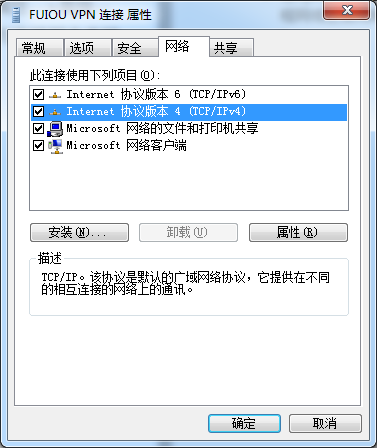
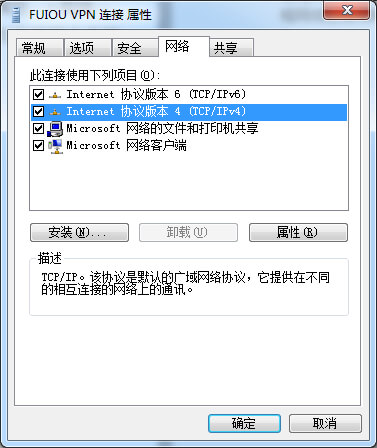
压缩图片 增加首行空格 修改分类 增加代码copy

diff --git a/source/_posts/2022/03/26/每周知识点介绍-权限验证流程-认证、授权、鉴权、权限验证.md b/source/_posts/2022/03/26/每周知识点介绍-权限验证流程-认证、授权、鉴权、权限验证.md
@@ -18,59 +18,64 @@ categories:
 - 知识点分享
 ---
 
-&ensp;&ensp;Hello,大家好，我是小毛驴。欢迎大家来到每周知识点介绍栏目。本次我将带领大家一起来了解下权限系统的核心流程（概念）有哪些（见下述列表），我们在设计权限系统或者和权限系统连接时需要注意哪些。  
+Hello,大家好，我是小毛驴。欢迎大家来到每周知识点介绍栏目。本次我将带领大家一起来了解下权限系统的核心流程（概念）有哪些（见下述列表），我们在设计权限系统或者和权限系统连接时需要注意哪些。  
 
 * 身份认证
 * 授权
 * 鉴权
 * 权限验证
 
-&ensp;&ensp;通过本文的介绍，也期望能在大家未来的开发和设计上起到一些积极的作用。言归正传，我们开始进入正题吧。  
+通过本文的介绍，也期望能在大家未来的开发和设计上起到一些积极的作用。言归正传，我们开始进入正题吧。  
 
 <!--more-->
 
-&ensp;&ensp;让我们来设想一个场景，你是一个酒店的前台人员，有一位顾客昨晚在你们酒店预订了一间房，今天按时到达。你先验证这位顾客的身份，登记后给他发放一张房卡，顾客拿着这种房卡即可搭乘电梯和打开他自己的房门。  
+让我们来设想一个场景，你是一个酒店的前台人员，有一位顾客昨晚在你们酒店预订了一间房，今天按时到达。你先验证这位顾客的身份，登记后给他发放一张房卡，顾客拿着这种房卡即可搭乘电梯和打开他自己的房门。  
 
-&ensp;&ensp;就在这个场景中，我们就经历了身份认证，授权，鉴权，权限验证的过程，具体的对应关系我们在下面展开。  
+就在这个场景中，我们就经历了身份认证，授权，鉴权，权限验证的过程，具体的对应关系我们在下面展开。  
 
 ## 身份认证是什么？
 
-&ensp;&ensp;身份认证是一种确认某人是某人的安全实践，听着有些虚幻就好像。但在我们系统中一般就是验证你的密码和我们存储你的密码是否一致。当前身份认证还有其他的更安全的手段，我们这里先只讨论最简单的实现。  
+身份认证是一种确认某人是某人的安全实践，听着有些虚幻就好像。但在我们系统中一般就是验证你的密码和我们存储你的密码是否一致。当前身份认证还有其他的更安全的手段，我们这里先只讨论最简单的实现。  
 
-&ensp;&ensp;在我们上面酒店的例子中，我们要求顾客给我们验证码或者身份证，就是为了对顾客进行身份认证。
+在我们上面酒店的例子中，我们要求顾客给我们验证码或者身份证，就是为了对顾客进行身份认证。
 
 > 身份认证手段：手机短信验证，密码验证，动态口令验证，第三方验证（Oauth2）等等
 
 ## 授权是什么？
 
-&ensp;&ensp;授权是指确定想每个用户手何种访问权限的过程，即在验证了你是我的用户之后，确定你在我这里有哪些权限。避免如果每次访问都进行用户认证时，加大了用户敏感信息泄露的可能。
-&ensp;&ensp;在酒店的例子中，就是根据你预订的房间情况给你开通不同的权限，房间权限，电梯权限，早餐权限等。  
-&ensp;&ensp;然后将这种权限用令牌的形式发放给你，也就是将权限授予给了你。在酒店中就是将房卡和早餐券发放给你。
+授权是指确定想每个用户手何种访问权限的过程，即在验证了你是我的用户之后，确定你在我这里有哪些权限。避免如果每次访问都进行用户认证时，加大了用户敏感信息泄露的可能。
+
+在酒店的例子中，就是根据你预订的房间情况给你开通不同的权限，房间权限，电梯权限，早餐权限等。
+
+然后将这种权限用令牌的形式发放给你，也就是将权限授予给了你。在酒店中就是将房卡和早餐券发放给你。
 
 > 在我们的Web服务中，这个立牌就是登录完成后返回的Cookie中包含的sessionId，Token，JWT-Token，Oauth2-Token等
 
 ## 鉴权是什么？
 
-&ensp;&ensp;鉴权在很多时候都会和权限验证混合在一起，我们尝试将他剥开分离来说明。鉴权和授权是匹配的，上一步的时候我们给用户下发的权限凭证，这一步我们要确认这个凭证是我们下发的，不是伪造的。  
+鉴权在很多时候都会和权限验证混合在一起，我们尝试将他剥开分离来说明。鉴权和授权是匹配的，上一步的时候我们给用户下发的权限凭证，这一步我们要确认这个凭证是我们下发的，不是伪造的。  
 
-&ensp;&ensp;在酒店的例子中，我们在电梯中权限来做过不太像的比喻，电梯作为基础的鉴权者，对所有的凭证来进行鉴权，是酒店下发的凭证才能乘坐电梯，其他的全部拒绝。
+在酒店的例子中，我们在电梯中权限来做过不太像的比喻，电梯作为基础的鉴权者，对所有的凭证来进行鉴权，是酒店下发的凭证才能乘坐电梯，其他的全部拒绝。
 
 > 注：虽然这里面已经涉及到权限认证了，但我们先模糊这个过程。另外那种电梯限制刷卡后只能到底自己楼层的例子也暂时不关注。
 
 ## 权限验证是什么？
 
-&ensp;&ensp;权限验证就比较好理解了，我这个接口，这个操作需要什么权限，你的凭证代表的权限集里是否有这个权限，有就通过，没有就拒绝，这个过程就是权限验证。
-&ensp;&ensp;在酒店中的例子就是，你的卡在刷你的房间时是可以刷开的，刷别人的房门是没有任何响应的。
-&ensp;&ensp;在我们系统实现时，权限验证就和我们[权限模型](//2022/03/26/每周知识点介绍-权限系统实现方案/)极其相关了。
+权限验证就比较好理解了，我这个接口，这个操作需要什么权限，你的凭证代表的权限集里是否有这个权限，有就通过，没有就拒绝，这个过程就是权限验证。
+
+在酒店中的例子就是，你的卡在刷你的房间时是可以刷开的，刷别人的房门是没有任何响应的。
+
+在我们系统实现时，权限验证就和我们[权限模型](//2022/03/26/每周知识点介绍-权限系统实现方案/)极其相关了。
 
 
 ## 小结
 
 ![权限认证流程](权限认证流程.svg)
 
-&ensp;&ensp;正如我们在图中见到的流程，整体权限的验证流程大概分为上述四部。
-&ensp;&ensp;但在实际实现的过程中这四部会合并两步。身份认证和授权合并在一起，鉴权和权限认证合并一起，这样既方便了设计和编码，也方便了用户操作。合并的例子我们可以看看Spring Security的架构图。
+正如我们在图中见到的流程，整体权限的验证流程大概分为上述四部。
+
+但在实际实现的过程中这四部会合并两步。身份认证和授权合并在一起，鉴权和权限认证合并一起，这样既方便了设计和编码，也方便了用户操作。合并的例子我们可以看看Spring Security的架构图。
 
 ![](spring-security.png)
 
-&ensp;&ensp;将这张图中我们可以清晰的看到，Spring Security将身份认证（LDAP、OpenID）和授权结合在一起，而将鉴权和权限验证结合在一起。形成了整个Spring Security的生态。
+将这张图中我们可以清晰的看到，Spring Security将身份认证（LDAP、OpenID）和授权结合在一起，而将鉴权和权限验证结合在一起。形成了整个Spring Security的生态。

diff --git a/source/_posts/2022/03/26/每周知识点介绍-权限系统实现方案.md b/source/_posts/2022/03/26/每周知识点介绍-权限系统实现方案.md
@@ -17,19 +17,21 @@ categories:
 - 知识点分享
 ---
 
-&ensp;&ensp;Hello,大家好，我是小毛驴。欢迎大家来到每周知识点介绍栏目。本周我将带领大家一起来了解下业内较为成熟的权限系统设计方案，包含`ACL`,  `DAL`, `MAC`, `RBAC`, `ABAC`。  
-&ensp;&ensp;通过本文的介绍，大家可以了解一些关于权限系统的概念，方案，还有一些在方案选型上的建议。好了，废话不多说，我们进入正题吧。
+Hello,大家好，我是小毛驴。欢迎大家来到每周知识点介绍栏目。本周我将带领大家一起来了解下业内较为成熟的权限系统设计方案，包含`ACL`,  `DAL`, `MAC`, `RBAC`, `ABAC`。
+
+通过本文的介绍，大家可以了解一些关于权限系统的概念，方案，还有一些在方案选型上的建议。好了，废话不多说，我们进入正题吧。
 
 <!--more-->
 
 ## 什么是权限控制
 
-&ensp;&ensp;在现实场景中有些操作只能由某个特定的人或特定岗位来完成，例如对外的公章，只能由老板来在确认后使用，或者你的请假条，将由你的直属上线来进行审批。  
-&ensp;&ensp;将这些“权限要求”搬到信息化系统之后，就要求我们的信息化系统也能进行相应的权限控制，保证某些资源，操作只能由特定的人员，岗位来访问，操作。
+在现实场景中有些操作只能由某个特定的人或特定岗位来完成，例如对外的公章，只能由老板来在确认后使用，或者你的请假条，将由你的直属上线来进行审批。
+
+将这些“权限要求”搬到信息化系统之后，就要求我们的信息化系统也能进行相应的权限控制，保证某些资源，操作只能由特定的人员，岗位来访问，操作。
 
 ## 权限管理模式有哪些
 
-&ensp;&ensp;在IT届长时间的演化后，将一些权限系统设计的思路抽象化，形成了一些模式，这些模式就是：
+在IT届长时间的演化后，将一些权限系统设计的思路抽象化，形成了一些模式，这些模式就是：
 
 ![权限方案发展历史](timeline.png)
 
@@ -39,7 +41,7 @@ categories:
 * `RBAC`
 * `ABAC`
 
-&ensp;&ensp;重要名称解释
+重要名称解释
 
 * `Subject` 实体，可指代人，群组等
 * `Object` 对象，需要权限才能操作的对象,有时也会用`Resources`资源替代
@@ -322,11 +324,11 @@ AWS和阿里的资源管理策略都是使用ABAC
 
 #### ABAC协议变种`PBAC: Policy-Based Access Control` 基于策略的访问控制
 
-&ensp;&ensp;和ABAC的区别，ABAC使用一些XML的标准，但PBAC并未进行明确的规则限制，更加灵活一些。具体可以[查阅这里](https://en.wikipedia.org/wiki/Attribute-based_access_control)。
+和ABAC的区别，ABAC使用一些XML的标准，但PBAC并未进行明确的规则限制，更加灵活一些。具体可以[查阅这里](https://en.wikipedia.org/wiki/Attribute-based_access_control)。
 
 #### ABAC协议变种`CBAC: Context-based access control` 基于声明的访问控制
 
-&ensp;&ensp;这是微软在ABAC基础的改版协议，具体可以[查阅这里](https://docs.microsoft.com/en-us/openspecs/windows_protocols/ms-azod/e600249e-247b-469c-8979-e0c578adfbe6)。
+这是微软在ABAC基础的改版协议，具体可以[查阅这里](https://docs.microsoft.com/en-us/openspecs/windows_protocols/ms-azod/e600249e-247b-469c-8979-e0c578adfbe6)。
 
 ## 对比
 
@@ -339,7 +341,7 @@ AWS和阿里的资源管理策略都是使用ABAC
 
 ## 总结
 
-&ensp;&ensp;虽说随着时间的前景，权限管理的模式不断的在推陈出新，新模式的灵活性也越来越强，但也相应的带来了一些复杂性。在实际的生产过程中需要根据项目的实际需求来抉择使用哪一种模式。
+虽说随着时间的前景，权限管理的模式不断的在推陈出新，新模式的灵活性也越来越强，但也相应的带来了一些复杂性。在实际的生产过程中需要根据项目的实际需求来抉择使用哪一种模式。
 
 
 ## 参考资料

diff --git a/source/_posts/2024/01/31/SpringBoot添加url版本控制注解ApiVersion.md b/source/_posts/2024/01/31/SpringBoot添加url版本控制注解ApiVersion.md
@@ -3,11 +3,23 @@ title: SpringBoot添加url版本控制注解ApiVersion
 date: 2024-01-31 14:17:33
 keyword:
 - spring boot
+- 版本
+- version
+- url中的version
+- 固定的path variable
 tags:
+  - Java
+  - Spring Boot
+  - ApiVersion
 categories:
   - [Java, Spring Boot]
 ---
 
-Title
+作为服务端研发，在设计一个接口的时候，为了保证后续业务的新增和修改，会有各种的扩展性设计，其中关于URL的通用扩展设计是在path中加入版本。
+例如: `https://domain.com/api/{version}/path` 。这种设计方便后续对接口升级时，只需要简单的升级版本号就可以了。
+
+在有多个版本号之后，我们如何在Spring Boot中优雅的根据版本号进行不同的逻辑处理呢，本篇文章会介绍我正在使用的一种比较优雅的方法在Spring Boot中来处理版本号。
 
 <!--more-->
+
+## 准备工作
